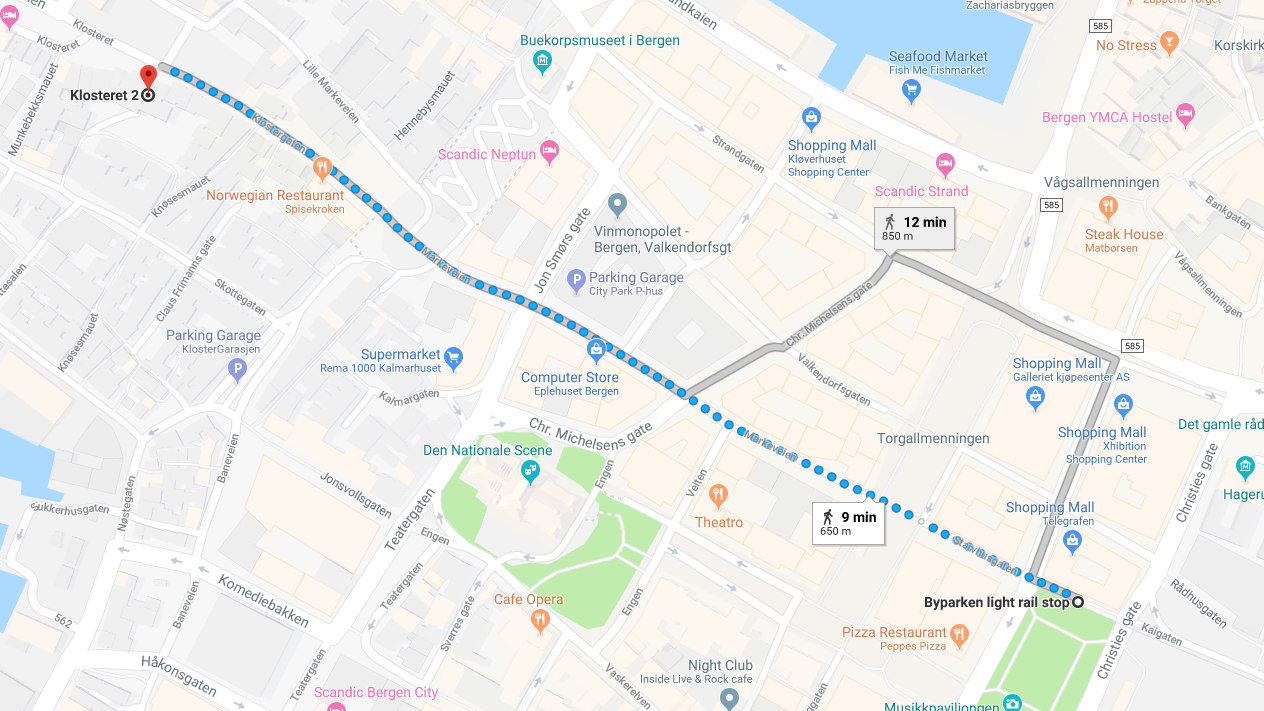
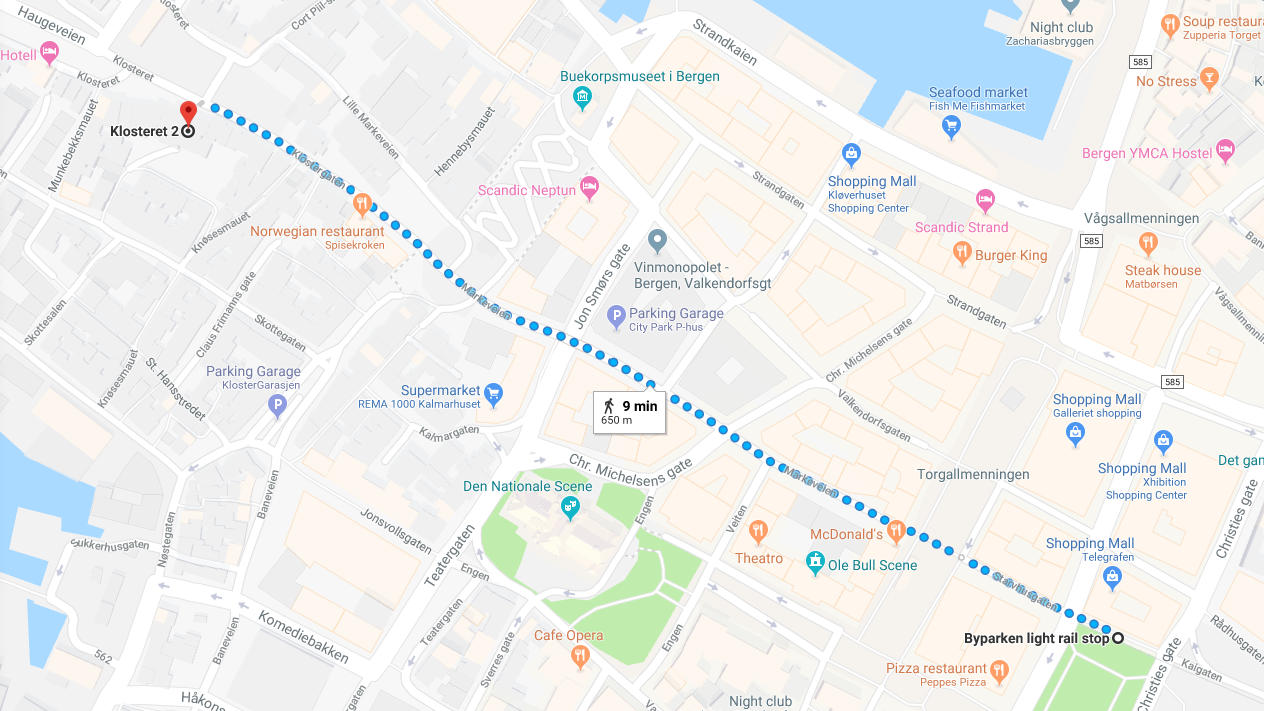
Removed the unneccesary alternative path

diff --git a/client/src/ui/components/directions/Directions.jsx b/client/src/ui/components/directions/Directions.jsx
@@ -19,7 +19,7 @@ import vid from "../../../vid/directions.webm";
  * @private
  */
 const mapUrl =
-	"https://www.google.no/maps/dir/Byparken+bybanestopp,+Starvhusgaten,+Bergen/Klosteret+2,+5005+Bergen/@60.3929216,5.3192144,17z/data=!4m14!4m13!1m5!1m1!1s0x463cfea84eb9d69b  :0x55ba049ec166cc2b!2m2!1d5.3255739!2d60.39202!1m5!1m1!1s0x463cfc034d788dd1:0xbe548cc971a7bc78!2m2!1d5.3156027!2d60.3947072!3e2?hl=en";
+	"https://www.google.no/maps/dir/Byparken+light+rail+stop,+Starvhusgaten+4,+5014+Bergen/Klosteret+2,+5005+Bergen/@60.3934411,5.3193324,17z/data=!4m19!4m18!1m10!1m1!1s0x463cfea84eb9d69b:0x55ba049ec166cc2b!2m2!1d5.3255739!2d60.39202!3m4!1m2!1d5.3206!2d60.3933499!3s0x463cfc02c178d349:0x8ba664fc2cebea07!1m5!1m1!1s0x463cfc034d788dd1:0xbe548cc971a7bc78!2m2!1d5.3156027!2d60.3947072!3e2?hl=en";
 
 function Directions() {
 	return (
